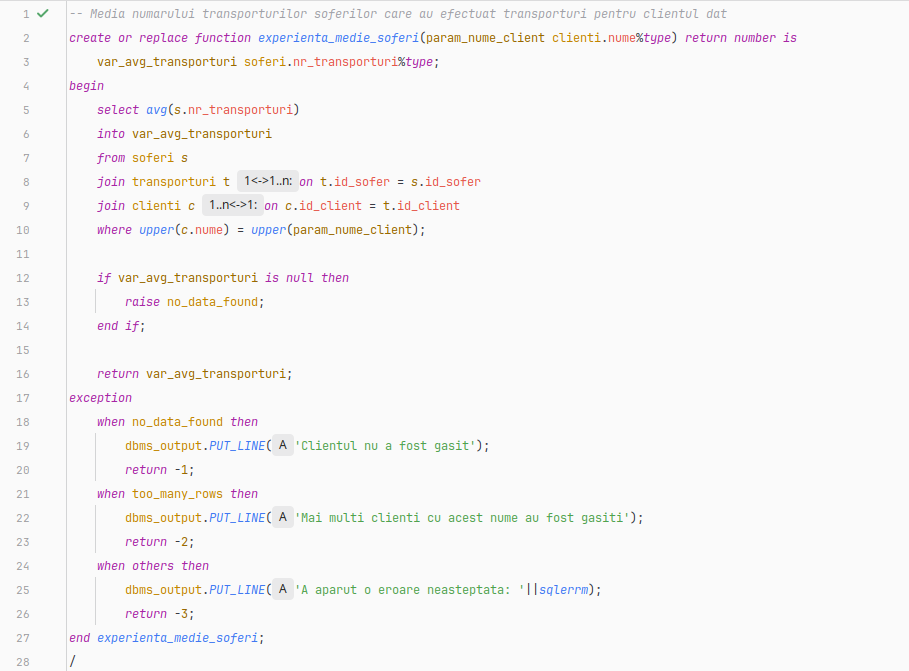
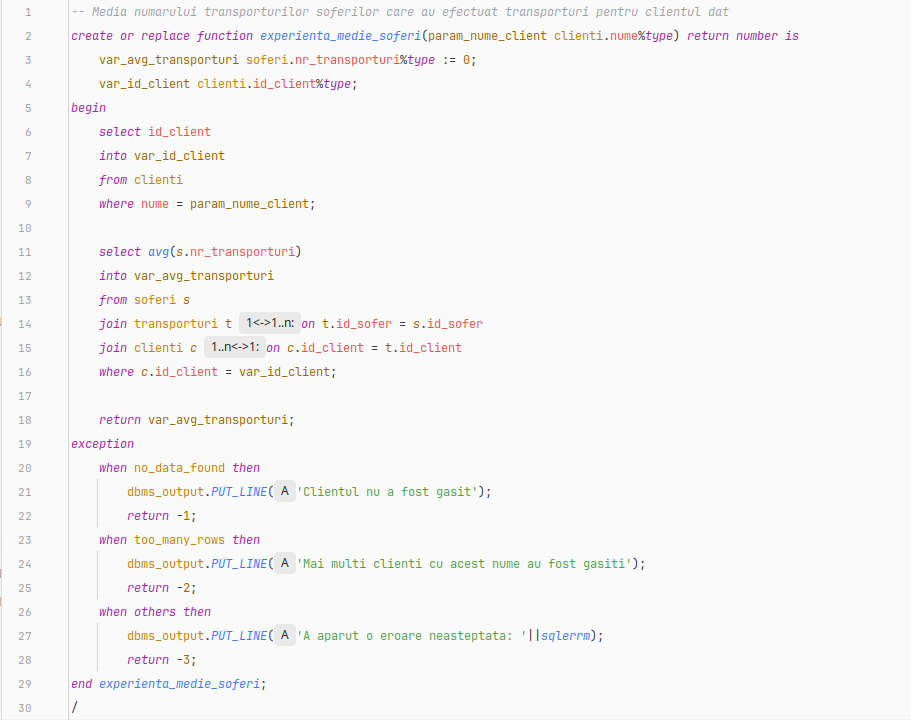
8, 9, 10

diff --git a/README.md b/README.md
@@ -74,3 +74,16 @@ Procedura utilizata este aici: [`exercitiul_6.sql`](exercitiul_6.sql).
 
 ![alt text](images/7.3.png)
 Procedura utilizata este aici: [`exercitiul_7.sql`](exercitiul_7.sql).
+
+### 8. Experienta medie a soferilor
+####  Creati o procedura de tip functie careia i se da ca parametru numele unui client si se returneaza numarul mediu de curse al soferilor c au facut livrari pentru el.
+#### Procedura:
+![alt text](images/8.1.png)
+#### Apelul procedurii stocate:
+![alt text](images/9.1.png)
+![alt text](images/9.2.png)
+![alt text](images/10.1.png)
+![alt text](images/10.2.png)
+![alt text](images/11.1.png)
+![alt text](images/11.2.png)
+
